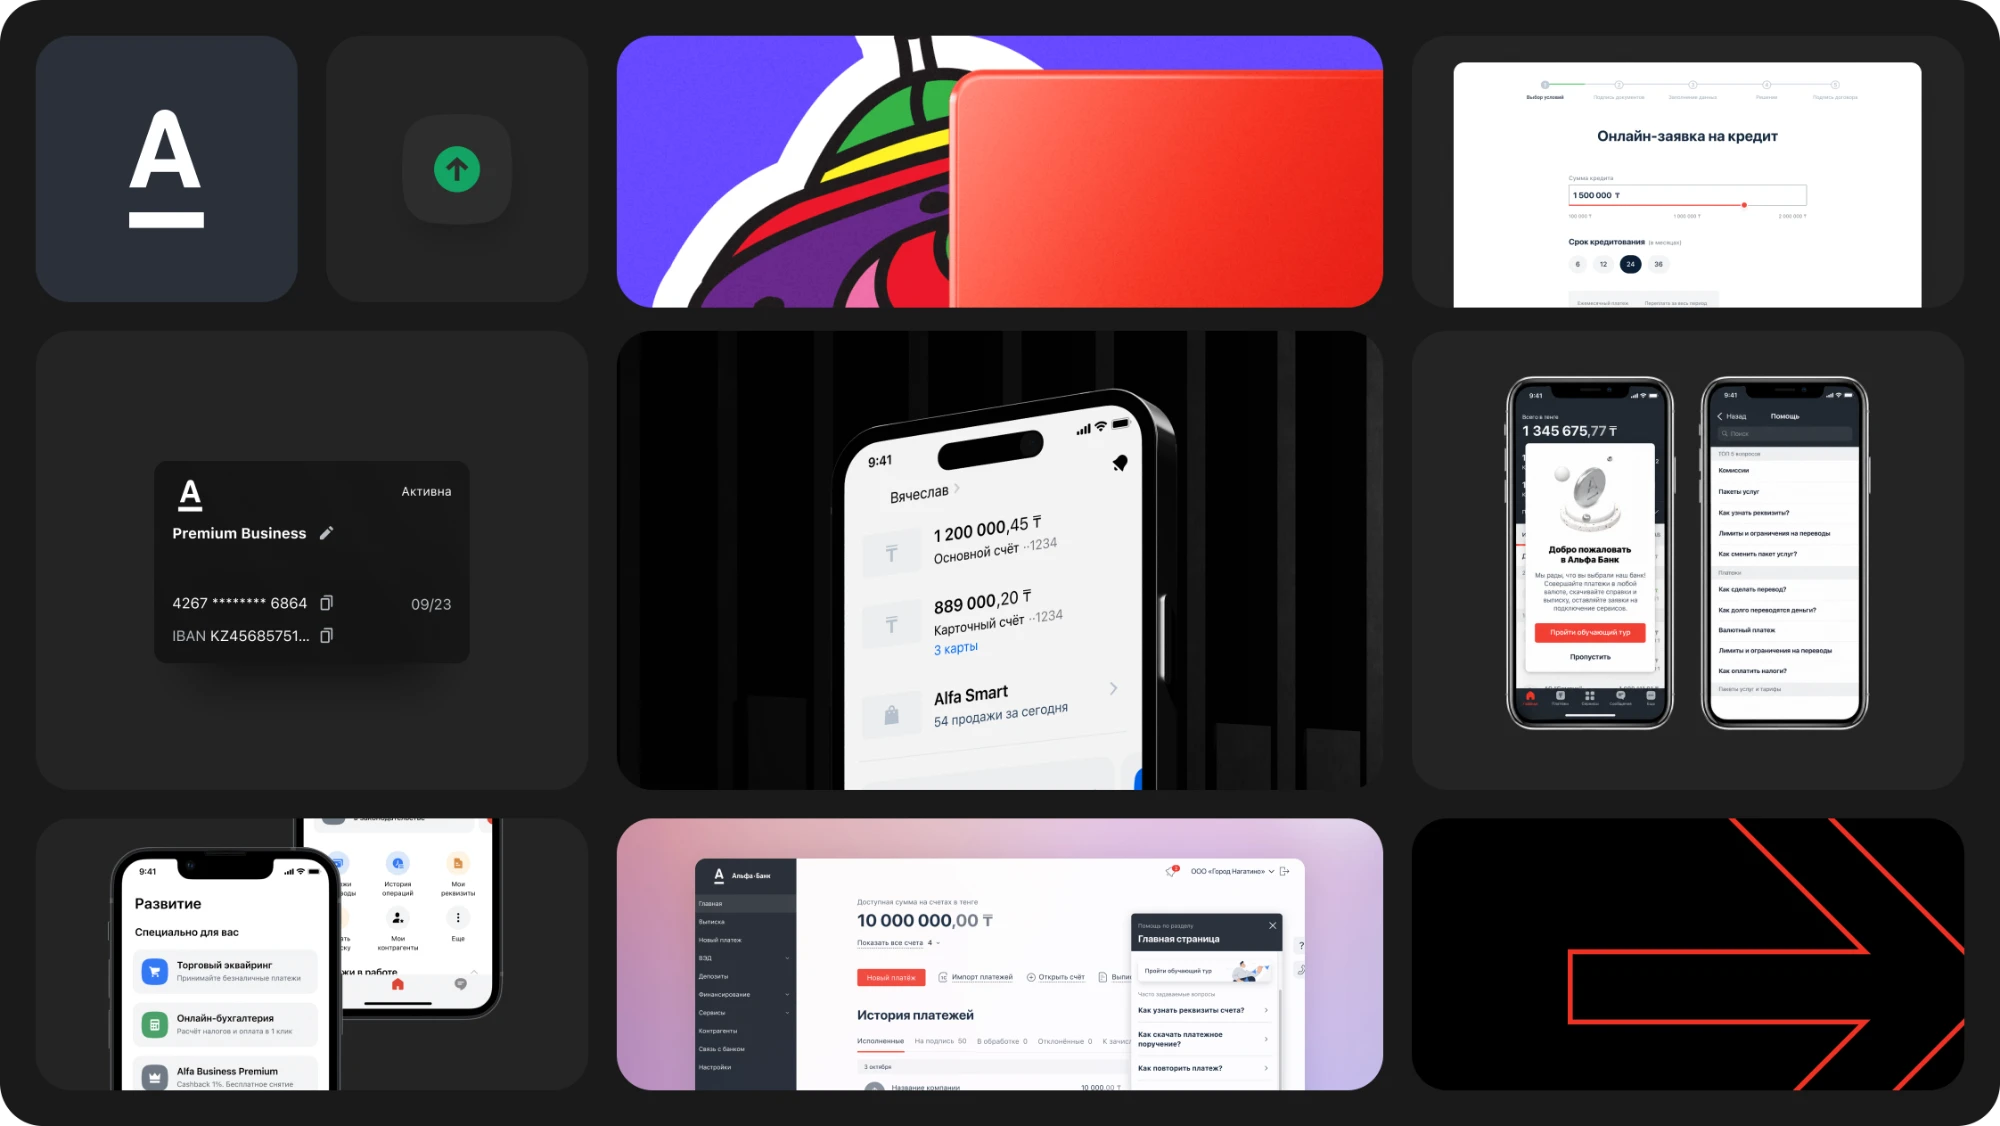
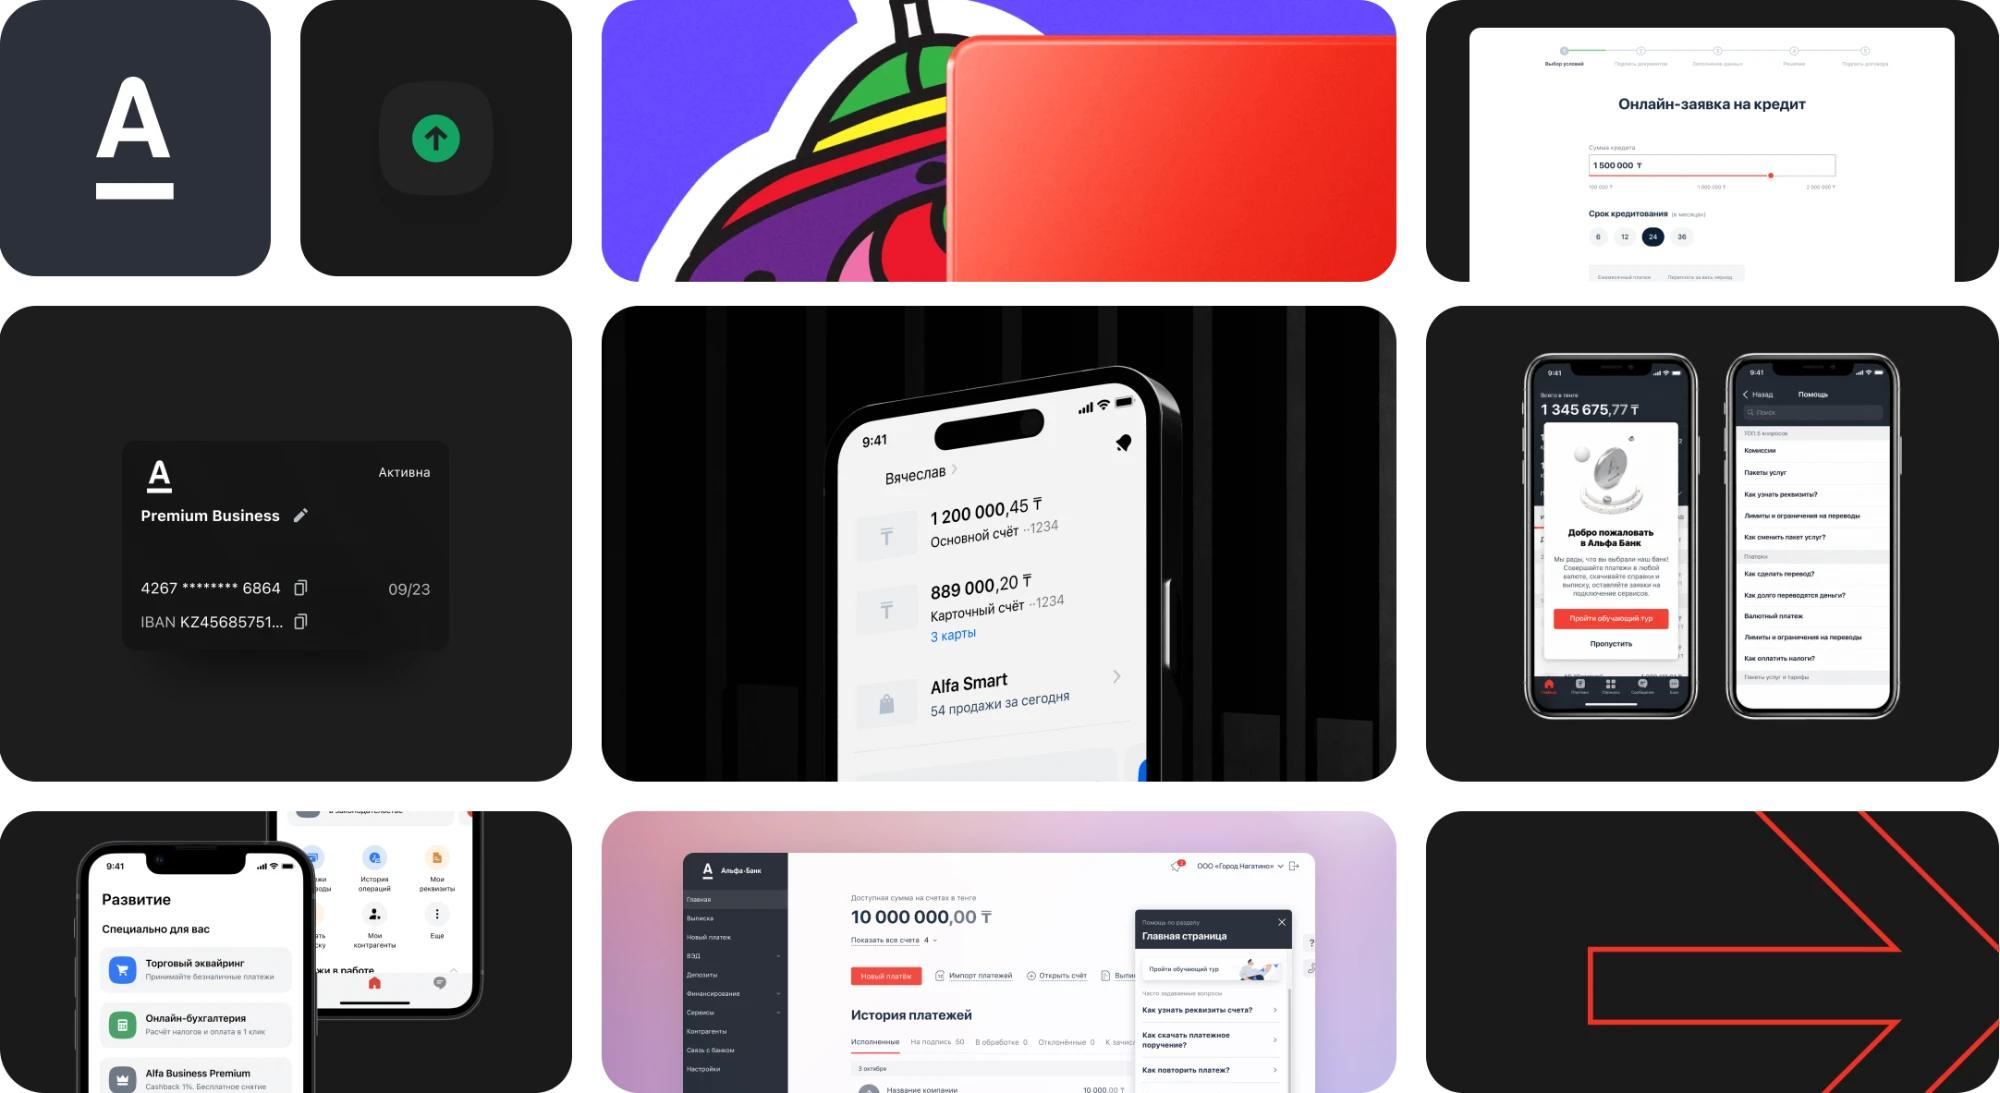
About: update X5 and Alfa-Bank light/dark images

diff --git a/about.html b/about.html
@@ -110,8 +110,8 @@
               <p>В&nbsp;команде дизайн-системы отвечал за&nbsp;UI&nbsp;компонентов. Внедрил дизайн-токены, чтобы одна библиотека работала для всех трёх брендов.</p>
             </div>
             <figure class="job__media">
-              <img draggable="false" class="job__media-light" src="images/x5-digital-light.webp" alt="Дизайн-система Grusha от X5 Digital: компоненты, виджеты и экраны приложений Пятёрочки, Перекрёстка и Чижика, DivKit" width="2000" height="1126" loading="lazy">
-              <img draggable="false" class="job__media-dark" src="images/x5-digital-dark.webp" alt="Дизайн-система Grusha от X5 Digital: компоненты, виджеты и экраны приложений Пятёрочки, Перекрёстка и Чижика, DivKit" width="2000" height="1126" loading="lazy">
+              <img draggable="false" class="job__media-light" src="images/x5-digital-light.webp?v=4" alt="Дизайн-система Grusha от X5 Digital: компоненты, виджеты и экраны приложений Пятёрочки, Перекрёстка и Чижика, DivKit" width="2000" height="1093" loading="lazy">
+              <img draggable="false" class="job__media-dark" src="images/x5-digital-dark.webp?v=4" alt="Дизайн-система Grusha от X5 Digital: компоненты, виджеты и экраны приложений Пятёрочки, Перекрёстка и Чижика, DivKit" width="2000" height="1093" loading="lazy">
             </figure>
           </div>
         </li>
@@ -146,8 +146,8 @@
               <p>Адаптировал дизайн-систему российского Альфа-Банка под наше приложение, добавлял компоненты и&nbsp;помогал дизайнерам с&nbsp;ней работать. На&nbsp;её&nbsp;основе вёл редизайн приложения и&nbsp;сайта, участвовал в&nbsp;CustDev и&nbsp;замерах SUS и&nbsp;SUM.</p>
             </div>
             <figure class="job__media">
-              <img draggable="false" class="job__media-light" src="images/alfabank-light.webp" alt="Работа в Альфа-Банке: мобильное приложение для бизнеса, онлайн-заявка на кредит, интернет-банк, онбординг и помощь" width="2000" height="1126" loading="lazy">
-              <img draggable="false" class="job__media-dark" src="images/alfabank-dark.webp" alt="Работа в Альфа-Банке: мобильное приложение для бизнеса, онлайн-заявка на кредит, интернет-банк, онбординг и помощь" width="2000" height="1126" loading="lazy">
+              <img draggable="false" class="job__media-light" src="images/alfabank-light.webp?v=4" alt="Работа в Альфа-Банке: мобильное приложение для бизнеса, онлайн-заявка на кредит, интернет-банк, онбординг и помощь" width="2000" height="1093" loading="lazy">
+              <img draggable="false" class="job__media-dark" src="images/alfabank-dark.webp?v=4" alt="Работа в Альфа-Банке: мобильное приложение для бизнеса, онлайн-заявка на кредит, интернет-банк, онбординг и помощь" width="2000" height="1093" loading="lazy">
             </figure>
           </div>
         </li>
